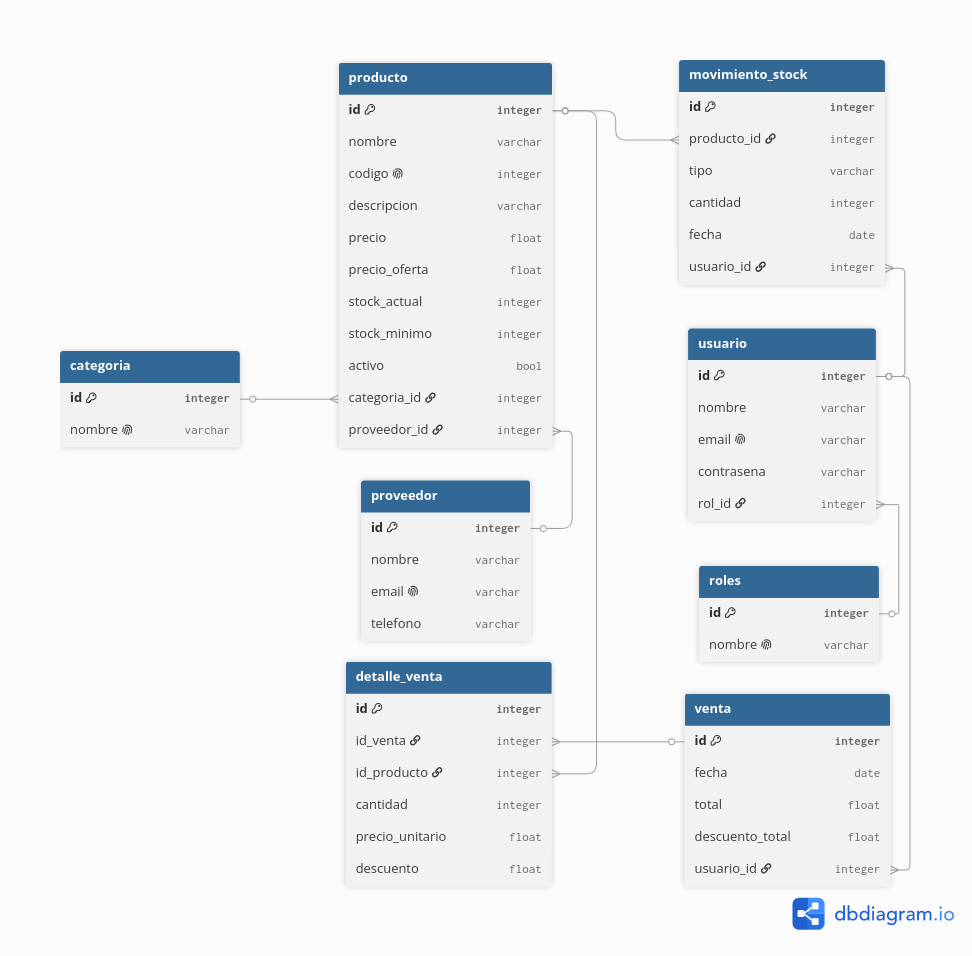
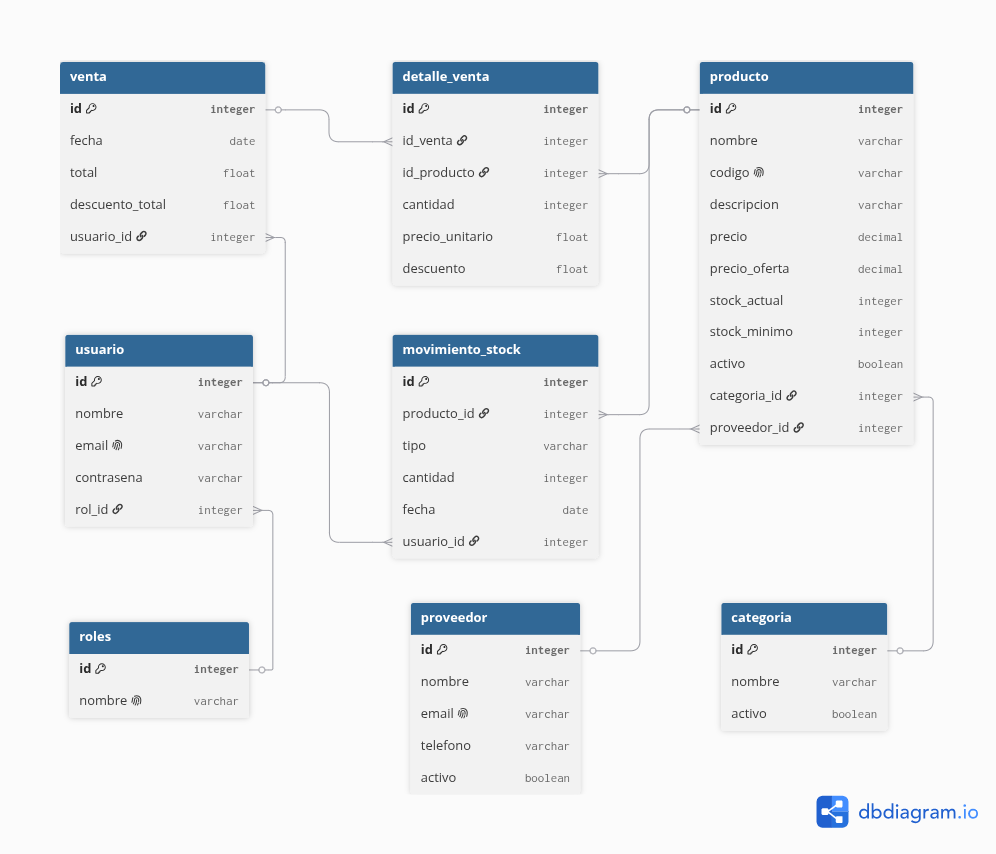
docs: actualizar documentación tras completar módulo de productos

diff --git a/docs/casos-de-uso/casosDeUsoDetallado.md b/docs/casos-de-uso/casosDeUsoDetallado.md
@@ -7,15 +7,15 @@ El sistema StockFlow define dos actores: **Usuario Registrado** (rol EMPLEADO) y
 - **Iniciar sesión:** acceso al sistema mediante email y contraseña.
 - **Registrar ventas:** permite crear una venta, agregando uno o más productos con su cantidad correspondiente. Al confirmar la venta, se dispara automáticamente el caso de uso **Descontar stock auto.** (relación *include*), que actualiza el `stockActual` de cada producto vendido y genera el `MovimientoStock` correspondiente con tipo `VENTA`.
 - **Ver reportes:** consulta de reportes básicos del sistema (productos con bajo stock, ventas por período, productos más vendidos).
-- **Filtrar productos:** búsqueda de productos por nombre, código o categoría.
+- **Filtrar productos:** búsqueda de productos por nombre, código, categoría, proveedor o rango de precio.
 - **Registrar ingreso de mercadería:** carga de stock entrante por reposición de un proveedor. Genera un `MovimientoStock` de tipo `COMPRA`. Se considera una operación de rutina del negocio, por lo que no requiere permisos de Admin.
 
 ### Admin
 
-- **ABM de categorías:** alta, baja y modificación de categorías de productos.
+- **ABM de categorías:** alta, baja (lógica) y modificación de categorías de productos.
 - **ABM de usuarios:** alta, baja (lógica) y modificación de usuarios del sistema, incluyendo la asignación de rol.
 - **ABM de productos:** alta, baja (lógica) y modificación de productos. Este caso de uso incluye (*include*) **Seleccionar categoría y proveedor**, ya que todo producto debe asociarse obligatoriamente a una categoría y un proveedor existentes.
-- **ABM de proveedores:** alta, baja y modificación de proveedores.
+- **ABM de proveedores:** alta, baja (lógica) y modificación de proveedores.
 - **Ajustes manuales de stock:** corrección del stock de un producto fuera del flujo normal de compra o venta (por ejemplo, error de conteo o devolución). Genera un `MovimientoStock` de tipo `AJUSTE_POSITIVO` o `AJUSTE_NEGATIVO`. A diferencia del ingreso de mercadería, esta operación queda restringida a Admin porque representa una excepción que requiere mayor control y trazabilidad.
 
 ### Decisiones de diseño relevantes

diff --git a/README.md b/README.md
@@ -31,3 +31,16 @@ StockFlow/
 
 ## Estado del proyecto
 En desarrollo.
+
+### Completado
+- Autenticación JWT (login, roles ADMIN/EMPLOYEE, endpoints protegidos por rol)
+- Manejo global de excepciones (GlobalExceptionHandler)
+- Gestión de categorías (CRUD + soft delete)
+- Gestión de proveedores (CRUD + soft delete)
+- Gestión de productos (CRUD + soft delete, búsqueda por nombre/código/categoría/proveedor/rango de precio, reporte de bajo stock)
+
+### En progreso / próximos pasos
+- Gestión de stock (ingresos, ajustes, historial de movimientos)
+- Ventas (crear venta, detalle de venta, descuento automático de stock)
+- Reportes (ventas por período, productos más vendidos)
+- Frontend (React)

diff --git a/docs/alcance/definicionEntidades.md b/docs/alcance/definicionEntidades.md
@@ -16,18 +16,20 @@
 - nombre
 - email
 - telefono
+- activo (baja lógica)
 
 ### Categoria
 - id
 - nombre
+- activo (baja lógica)
 
 ### Producto
 - id
 - nombre
-- codigo
+- codigo (String, único)
 - descripcion
-- precio
-- precioOferta (nullable)
+- precio (BigDecimal)
+- precioOferta (BigDecimal, nullable)
 - stockActual
 - stockMinimo (para el aviso)
 - activo (baja lógica)

diff --git a/docs/alcance/mvp-v1.md b/docs/alcance/mvp-v1.md
@@ -12,7 +12,8 @@
 - Alta de productos.
 - Baja lógica de productos.
 - Modificación de productos.
-- Búsqueda por nombre, código o categoría.
+- Búsqueda por nombre, código, categoría o proveedor.
+- Búsqueda por rango de precio.
 - Stock mínimo configurable.
 - Precio de venta y precio de oferta (opcional).
 - Un proveedor por producto.
